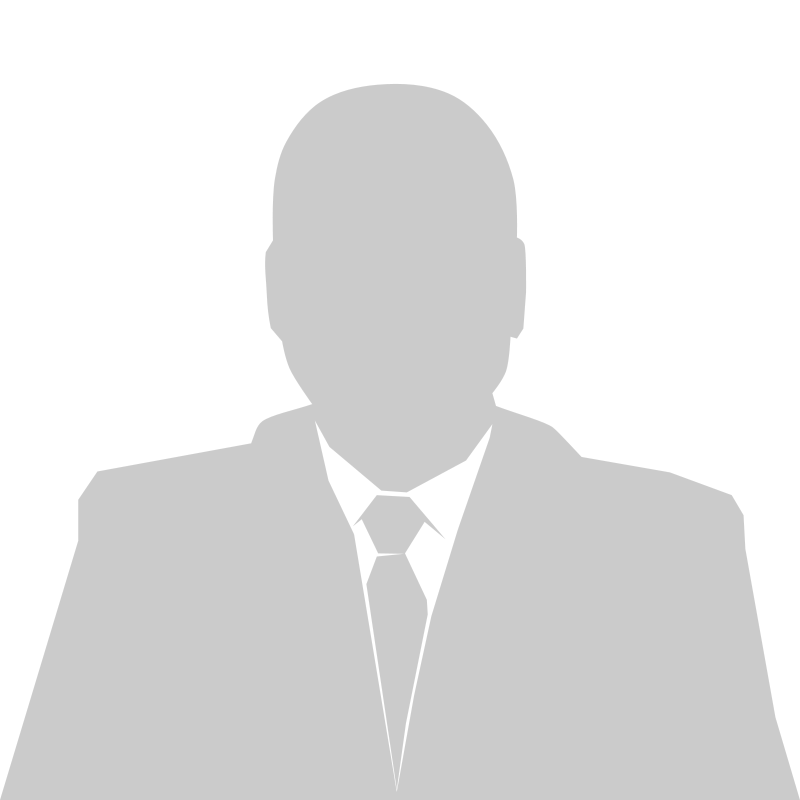
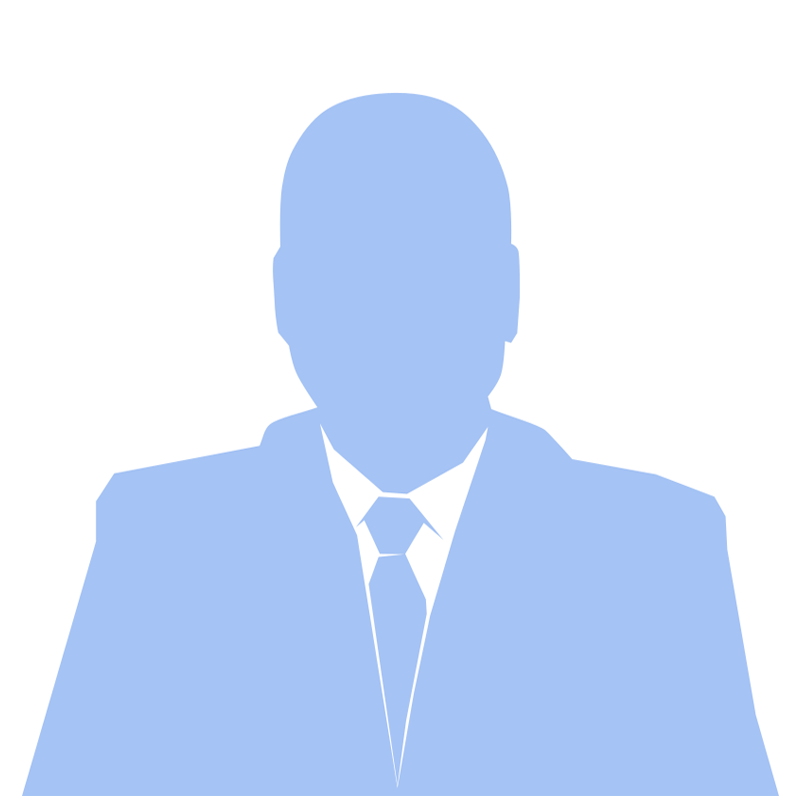
Updated Profiles page
Added James png and other content. Working on formatting all of this.

diff --git a/css/main.css b/css/main.css
@@ -1,8 +1,8 @@
 @import url('https://fonts.googleapis.com/css?family=ZCOOL+XiaoWei');
 
-body { /* General style rules for the body section */
+body {
 	background-color:white;
-	color: lightgreen;
+	color: #3578e7;
 	text-align: center;
 	background-size: cover;
     font-family: sans-serif;
@@ -39,4 +39,10 @@ header li a {
     color: white;
     text-decoration: none;
     font-family: sans-serif;
+}
+
+#james {
+	display: block;
+  	width: 10%;
+  	padding: 30px;
 }

diff --git a/profiles.html b/profiles.html
@@ -19,7 +19,8 @@
     	</header>
 
     	<main>
-	    	<img src="images/james.png">
+            <h1>Our Profiles (Beta)</h1>
+	    	  <img id="james" src="images/james.png">
     	</main>
     </body>
 
